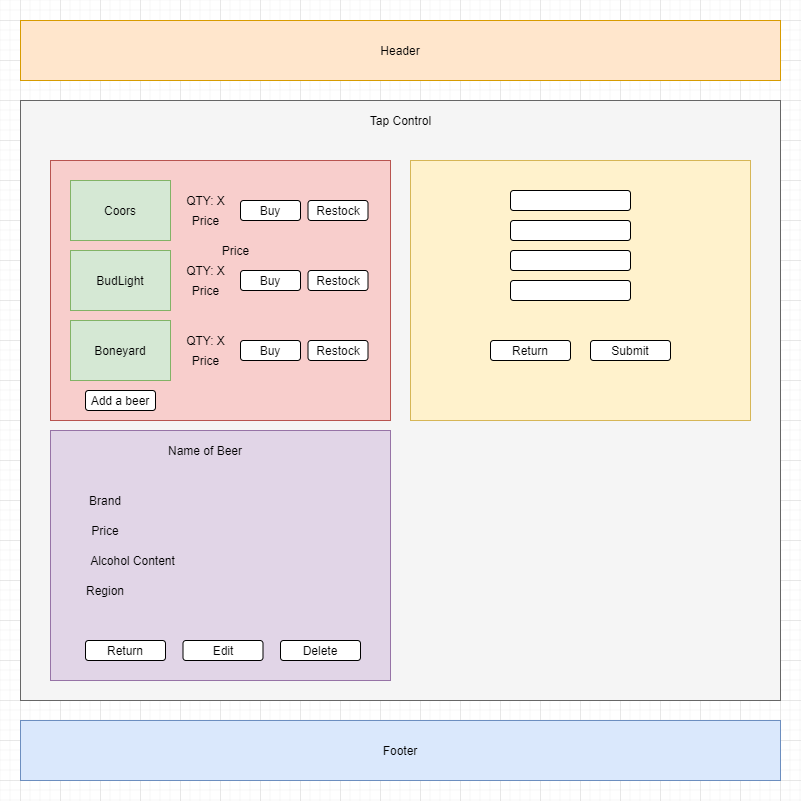
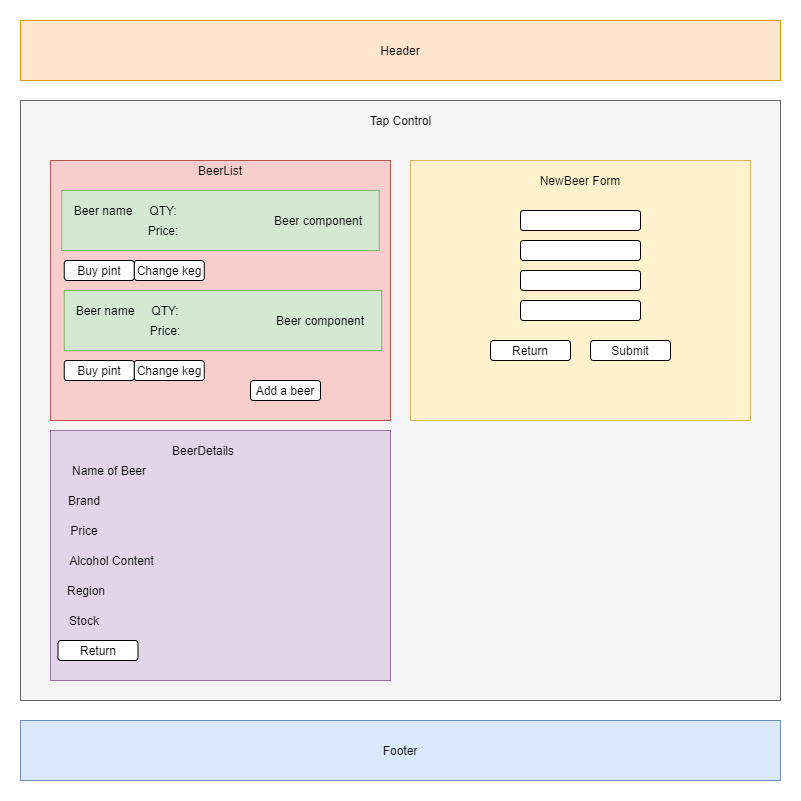
Create new schema diagram, update README

diff --git a/README.md b/README.md
@@ -1,6 +1,6 @@
-# _Mikey's Tap Room_
+# _Mikey's Tap Room with Redux_
 
-#### _A React program that mimics a tap room inventory_
+#### _A React/Redux program that mimics a tap room inventory_
 
 #### By _**Michael Kriegel**_
 
@@ -9,7 +9,9 @@
 ## Technologies Used
 
 * _HTML/CSS_
-* _React Library_
+* _React_
+* _JSX_
+* _Redux_
 * _JavaScript_
 * _NPM_
 * _Visual Studio_
@@ -19,7 +21,7 @@
 
 ## Description
 
-This is a React program that mimics a tap room. Users are presented with a menu of available kegs first thing. Users are able to select kegs to view the details of the beer within that keg. They are able to also purchase a pint (or multiple) and change the keg once it runs out. Users may also add a keg of beer if they so choose. A form is provided for this, kegs are automatically assumed to be ~124 pints in volume and it is assumed only pints are served. The program employs local state and conditional rendering to display the pages. It also uses shared state to communicate which keg is being selected and purchased/restocked. 
+This is a React/Redux program that mimics a tap room. Users are presented with a menu of available kegs first thing. Users are able to select kegs to view the details of the beer within that keg. They are able to also purchase a pint (or multiple) and change the keg once it runs out. Users may also add a keg of beer if they so choose. A form is provided for this, kegs are automatically assumed to be ~124 pints in volume and it is assumed only pints are served.  State slices are completely managed by Redux, React does not employ local or shared state. React is still used to handle conditional rendering of the pages. 
 
 ## Setup/Installation Requirements
 
@@ -34,7 +36,6 @@ This is a React program that mimics a tap room. Users are presented with a menu 
 
 * _No styling or formatting_
 * _Keg volume and purchase volume is assumed and hard coded. Keg volume: 124 pints, purchase volume: 1 pint_
-* _Edit button and Delete button in details have no functionality yet_
 
 ## License
 
